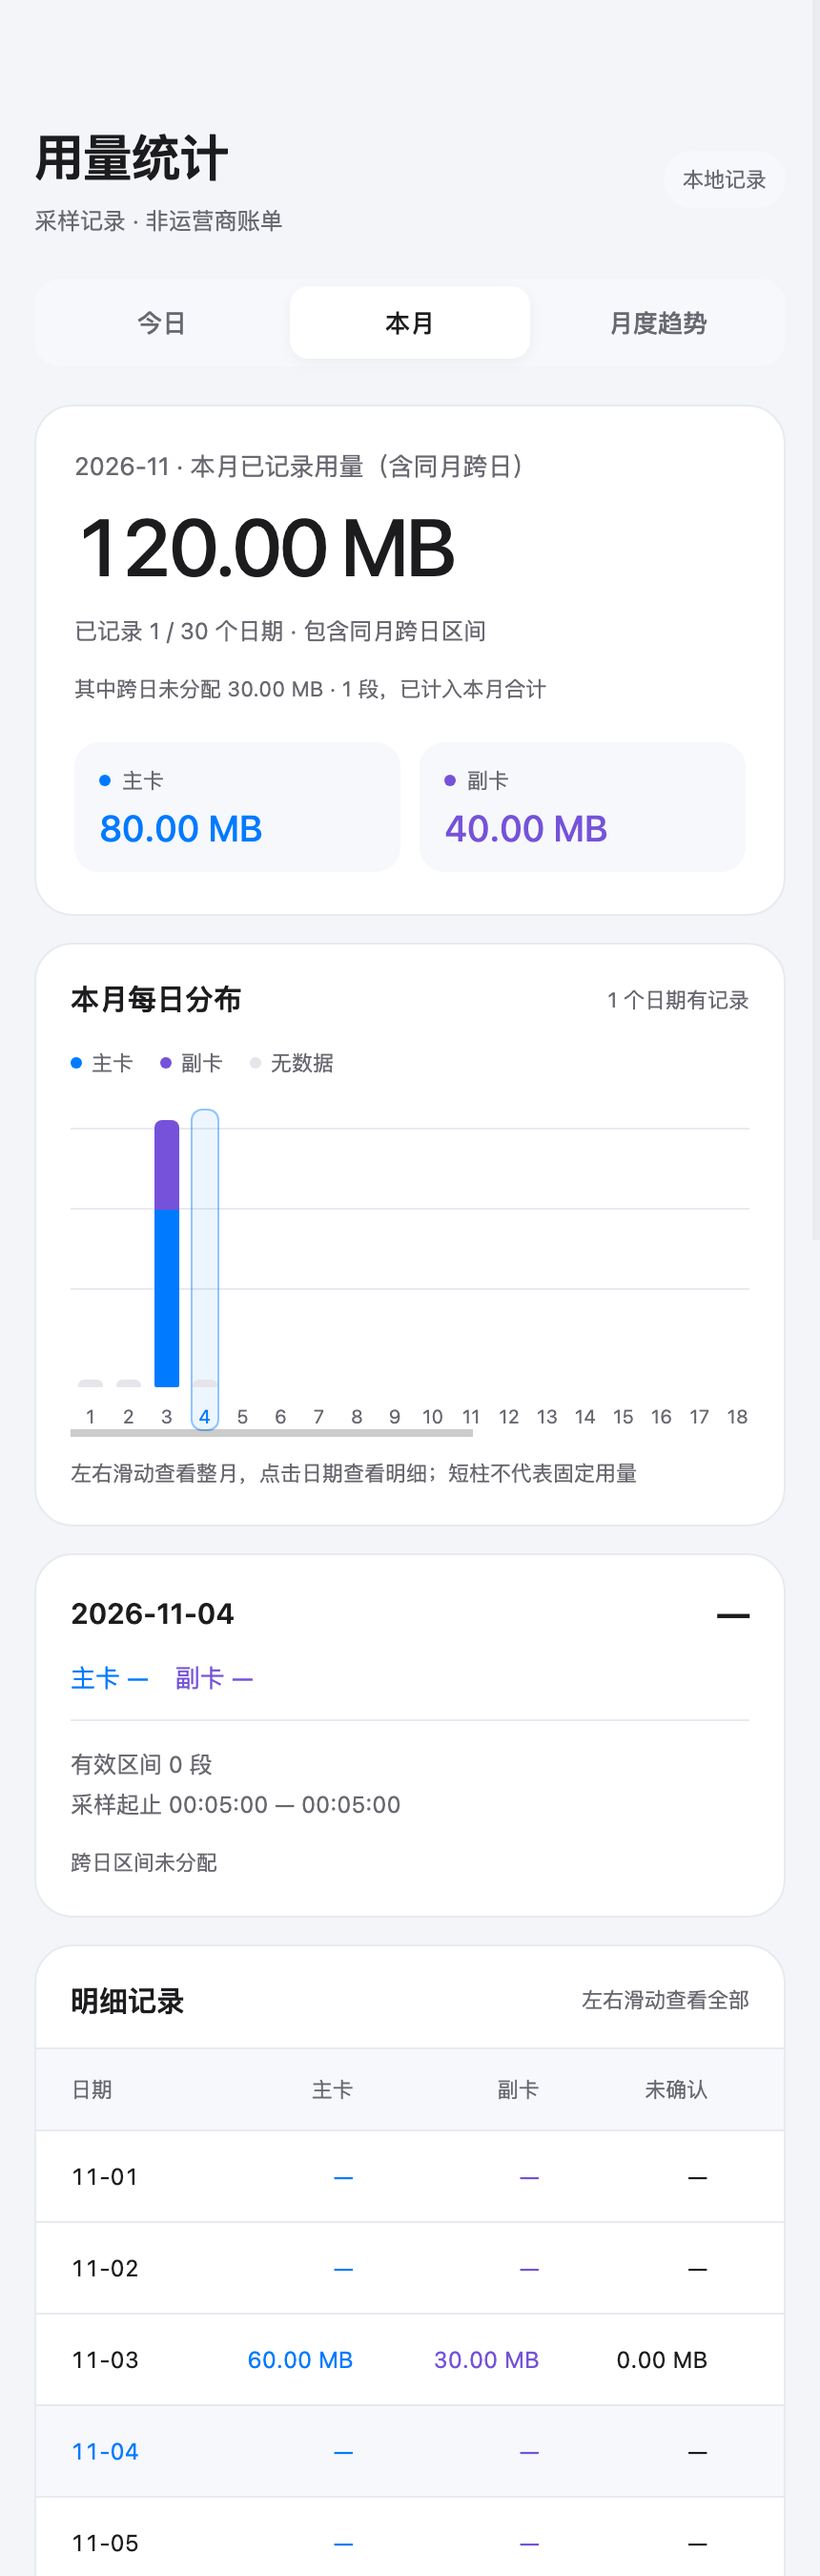
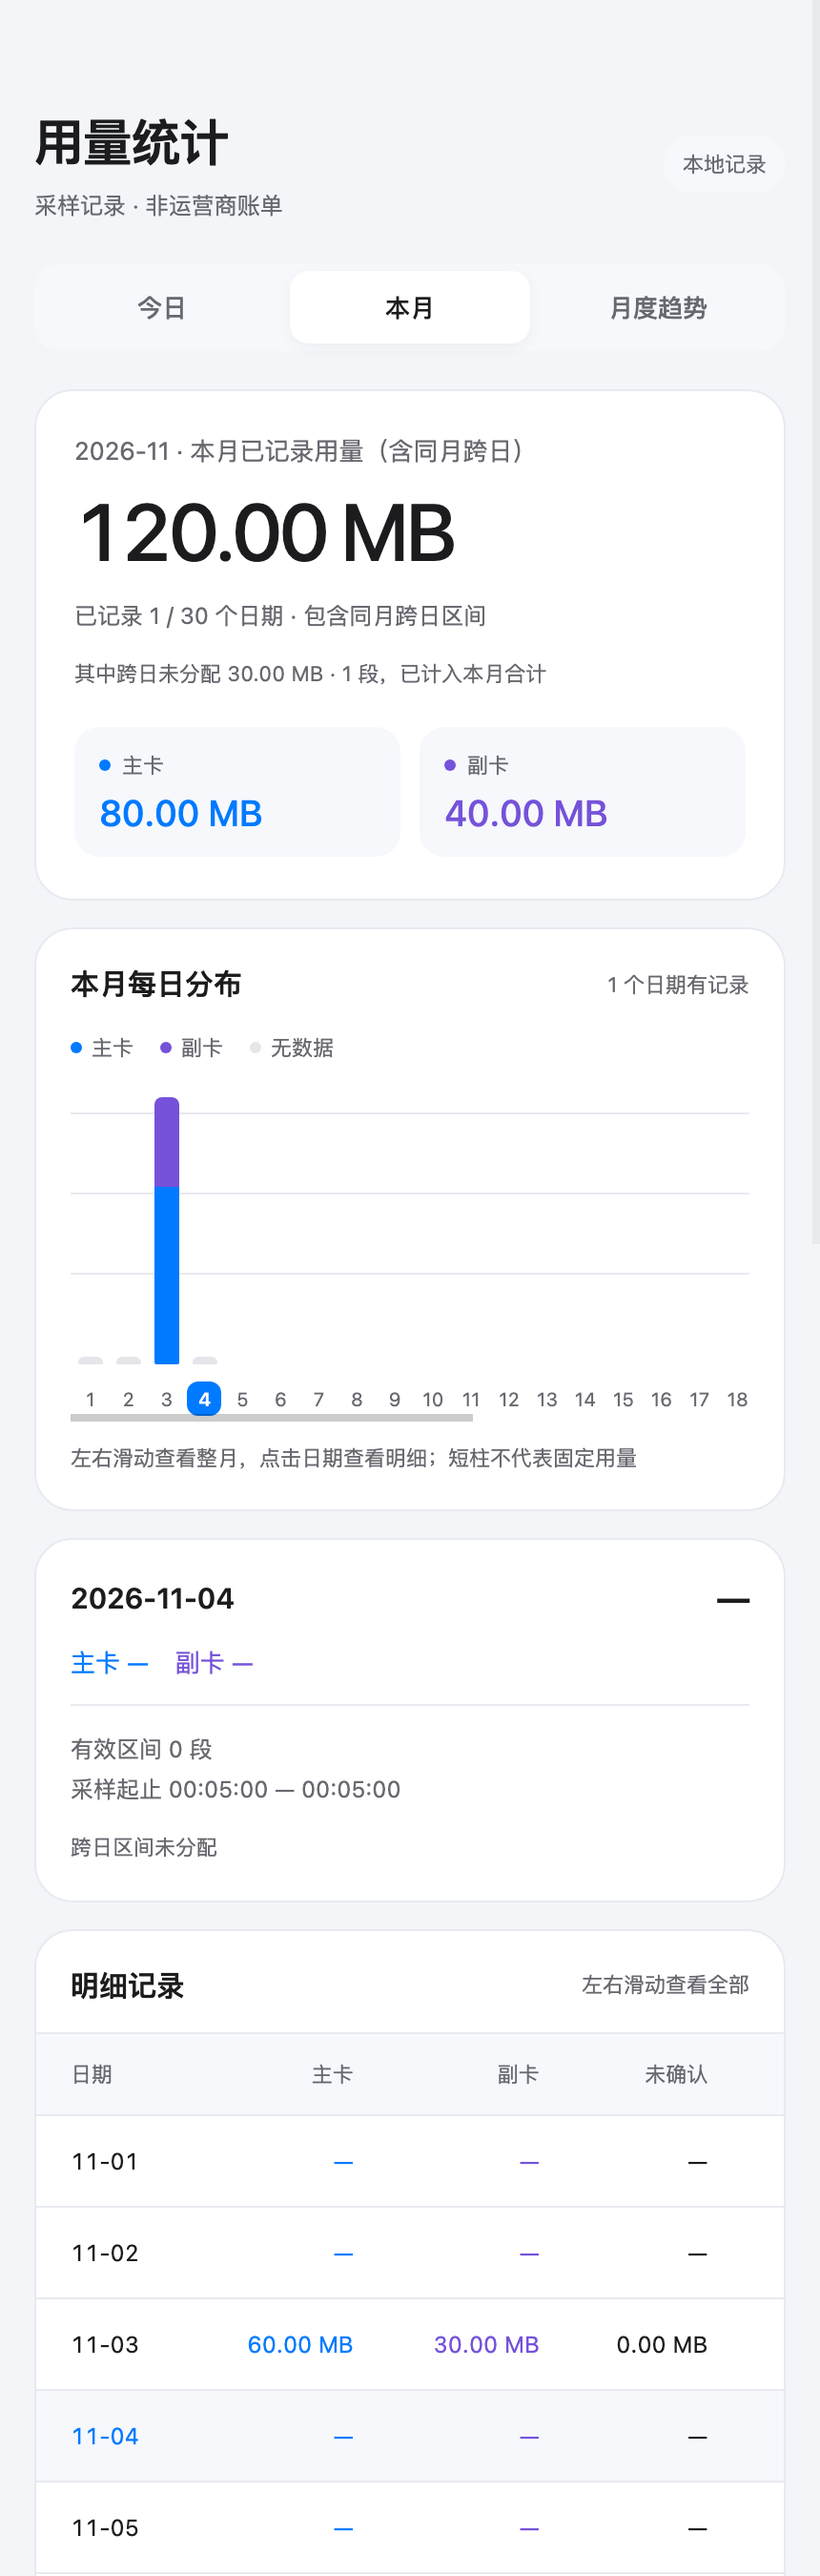
Tighten statistics header spacing and simplify chart selection

diff --git a/scriptable/UnicomFlow.js b/scriptable/UnicomFlow.js
@@ -554,11 +554,11 @@ function statisticsHTML(reports, stale = false, initialPeriod = 'month') {
   return `<!doctype html><html lang="zh-CN"><head><meta charset="utf-8"><meta name="viewport" content="width=device-width,initial-scale=1,minimum-scale=1,maximum-scale=1,user-scalable=no,viewport-fit=cover"><style>
   :root{color-scheme:${light ? 'light' : 'dark'};--text:#${UF.text};--muted:#${UF.muted};--blue:#${UF.blue};--purple:#${UF.purple};--warning:#${UF.warning};--line:#${border};--surface:#${surface};--soft:#${soft}}
   *{box-sizing:border-box;touch-action:manipulation}body{margin:0;background:#${page};color:var(--text);font:14px -apple-system,BlinkMacSystemFont,sans-serif;-webkit-text-size-adjust:100%}button{font:inherit;color:inherit;-webkit-tap-highlight-color:transparent}button:focus-visible{outline:2px solid var(--blue);outline-offset:2px}[hidden]{display:none!important}
-  .shell{max-width:760px;margin:auto;padding:calc(64px + env(safe-area-inset-top,0px)) 18px 30px}header{display:flex;align-items:center;justify-content:space-between;margin-bottom:22px}h1{font-size:26px;letter-spacing:-.6px;margin:0 0 6px;font-weight:650}.eyebrow{font-size:12px;color:var(--muted)}.badge{font-size:11px;white-space:nowrap;padding:7px 10px;border-radius:20px;background:var(--soft);color:var(--muted)}.cached{color:var(--warning)}
+  .shell{max-width:760px;margin:auto;padding:56px 18px 30px}header{display:flex;align-items:center;justify-content:space-between;margin-bottom:22px}h1{font-size:26px;letter-spacing:-.6px;margin:0 0 6px;font-weight:650}.eyebrow{font-size:12px;color:var(--muted)}.badge{font-size:11px;white-space:nowrap;padding:7px 10px;border-radius:20px;background:var(--soft);color:var(--muted)}.cached{color:var(--warning)}
   .tabs{display:grid;grid-template-columns:repeat(3,1fr);padding:4px;background:var(--soft);border-radius:14px;gap:4px;margin-bottom:20px}.tab{border:0;background:transparent;padding:10px 4px;border-radius:10px;color:var(--muted);font-size:13px;font-weight:500}.tab.active{background:var(--surface);color:var(--text);box-shadow:0 2px 8px #0000000c}
   .card{background:var(--surface);border:1px solid var(--line);border-radius:20px;padding:18px;margin-bottom:14px;min-width:0}.hero{padding:22px 20px}.period-label{font-size:13px;color:var(--muted)}.total{margin:10px 0 12px;font-variant-numeric:tabular-nums;letter-spacing:-1.5px;font-size:42px;font-weight:500;line-height:1.1}.total small{font-size:17px;letter-spacing:0;color:var(--muted);font-weight:400;margin-left:7px}.coverage{font-size:12px;color:var(--muted);line-height:1.6}.totals{display:grid;grid-template-columns:1fr 1fr;gap:10px;margin-top:18px}.mini{padding:12px 13px;border-radius:13px;background:var(--soft)}.mini-label{font-size:11px;color:var(--muted);display:flex;align-items:center;gap:6px}.mini strong{display:block;font-size:19px;font-weight:500;font-variant-numeric:tabular-nums;margin-top:6px}.main{color:var(--blue)}.vice{color:var(--purple)}.unconfirmed{font-size:12px;margin-top:12px;color:var(--warning)}
   h2{font-size:15px;font-weight:600;margin:0}.card-head{display:flex;justify-content:space-between;align-items:center;gap:8px}.hint{font-size:11px;color:var(--muted)}.legend{display:flex;flex-wrap:wrap;gap:14px;font-size:11px;color:var(--muted);margin:15px 0 8px}.legend span{display:inline-flex;align-items:center;gap:5px}.dot{display:inline-block;width:6px;height:6px;border-radius:50%;flex-shrink:0}.blue{background:var(--blue)}.purple{background:var(--purple)}.amber{background:var(--warning)}.gray{background:#${UF.track}}
-  .scroll{overflow-x:auto;max-width:100%;-webkit-overflow-scrolling:touch}.chart{display:flex;align-items:stretch;gap:5px;height:180px;padding:8px 3px 3px;background:repeating-linear-gradient(to top,transparent 0,transparent 41px,var(--line) 41px,var(--line) 42px);background-size:100% 144px;background-repeat:no-repeat}.bar{flex:1;min-width:14px;padding:0 1px;border:0;background:transparent;border-radius:6px;display:flex;align-items:center;justify-content:flex-end;flex-direction:column;gap:9px}.bar.selected{background:#${UF.blue}12;box-shadow:inset 0 0 0 1px #${UF.blue}66}.fill{display:flex;flex-direction:column-reverse;overflow:hidden;width:100%;border-radius:4px 4px 1px 1px;background:var(--purple)}.fill.missing{background:#${UF.track}}.fill.future{background:transparent}.segment{display:block;width:100%;flex-shrink:0}.tick{height:14px;font-size:10px;color:var(--muted);white-space:nowrap}.bar.selected .tick{color:var(--blue)}.chart-foot{margin-top:10px;line-height:1.6;font-size:11px;color:var(--muted)}
+  .scroll{overflow-x:auto;max-width:100%;-webkit-overflow-scrolling:touch}.chart{display:flex;align-items:stretch;gap:5px;height:180px;padding:8px 3px 3px;background:repeating-linear-gradient(to top,transparent 0,transparent 41px,var(--line) 41px,var(--line) 42px);background-size:100% 144px;background-repeat:no-repeat}.bar{flex:1;min-width:14px;padding:0 1px;border:0;background:transparent;border-radius:6px;display:flex;align-items:center;justify-content:flex-end;flex-direction:column;gap:9px}.fill{display:flex;flex-direction:column-reverse;overflow:hidden;width:100%;border-radius:4px 4px 1px 1px;background:var(--purple)}.fill.missing{background:#${UF.track}}.fill.future{background:transparent}.segment{display:block;width:100%;flex-shrink:0}.tick{height:18px;min-width:18px;padding:2px 4px;line-height:14px;border-radius:6px;font-size:10px;color:var(--muted);white-space:nowrap}.bar.selected .tick{background:var(--blue);color:#fff;font-weight:600}.chart-foot{margin-top:10px;line-height:1.6;font-size:11px;color:var(--muted)}
   .selected-heading{display:flex;align-items:center;justify-content:space-between;gap:12px}.selected-value{font-size:21px;font-weight:500;letter-spacing:-.4px}.selected-cards{display:flex;flex-wrap:wrap;gap:14px;margin:13px 0;font-size:13px}.detail{border-top:1px solid var(--line);padding-top:12px;color:var(--muted);font-size:12px;line-height:1.8;white-space:pre-line;overflow-wrap:anywhere}.status-note{margin:10px 0 0;font-size:11px;line-height:1.7;color:var(--muted)}
   .table-card{padding:18px 0 0;overflow:hidden}.table-card .card-head{padding:0 18px 14px}table{width:100%;min-width:545px;border-collapse:collapse;font-variant-numeric:tabular-nums}th,td{text-align:right;border-top:1px solid var(--line);padding:13px 12px;white-space:nowrap;font-size:12px}th{font-size:11px;font-weight:400;color:var(--muted);background:var(--soft)}th:first-child,td:first-child{text-align:left;position:sticky;left:0;z-index:1;background:var(--surface);padding-left:18px}th:first-child{background:var(--soft)}td:last-child{color:var(--muted);font-size:11px}tr.selected td{background:#${soft}}.date{border:0;padding:3px 0;background:none;color:var(--text);font-size:12px}tr.selected .date{color:var(--blue)}
   details{color:var(--muted);font-size:12px;line-height:1.8}summary{cursor:pointer;color:var(--text);font-size:13px;font-weight:500}details p{margin:10px 0 0}.cross-event{padding:10px 0;border-top:1px solid var(--line);font-size:12px;line-height:1.7;white-space:pre-line}footer{white-space:pre-line;color:var(--muted);font-size:11px;line-height:1.8;text-align:center;margin-top:20px}.range-note{margin:12px 0 0;color:var(--muted);font-size:11px;line-height:1.7}
@@ -586,7 +586,7 @@ function statisticsHTML(reports, stale = false, initialPeriod = 'month') {
       el('selected-unknown').hidden=!(d.unknownMB>0);el('selected-unknown').textContent='未确认 '+amount(d.unknownMB);
       el('detail').textContent=d.first==null?'暂无成功采样记录':'有效区间 '+d.intervals+' 段\\n采样起止 '+clock(d.first,current==='year')+' — '+clock(d.last,current==='year');
       el('selected-note').textContent=(current==='year'&&d.key===report.month?'本月尚未结束，不参与月均。':current==='year'&&d.partial?'部分记录，不代表完整月用量。':'')+(d.future?'该时段尚未到达':d.notes.join('；')||(d.mb==null?'没有记录，未补零':'仅代表已记录区间，不保证覆盖完整时段'));
-      Array.from(el('chart').children).forEach(item=>item.classList.toggle('selected',item.dataset.key===d.key));
+      Array.from(el('chart').children).forEach(item=>{const active=item.dataset.key===d.key;item.classList.toggle('selected',active);item.setAttribute('aria-pressed',String(active));});
       Array.from(el('rows').children).forEach(item=>item.classList.toggle('selected',item.dataset.key===d.key));
     }
     function render(key){

diff --git a/docs/unicom-flow/README.md b/docs/unicom-flow/README.md
@@ -111,7 +111,7 @@
 
 从 Scriptable 运行脚本，在“账户与数据 → 用量统计”进入统一页面，通过顶部“今日／本月／月度趋势”切换。打开页面只查询一次，之后切换周期、点击柱子和表格都使用同一份记录，不额外请求联通。原有历史文件与统计口径不变，不会因界面更新清空记录。
 
-页面禁止双击缩放，并为 Scriptable 的 Close／分享工具栏预留顶部安全距离；保留页面、图表和表格的正常滑动。页面使用当前黑白主题的卡片布局，分别展示总览、主副卡汇总、堆叠图、选中记录与明细表。无数据、归属未确认、跨日待分配、缓存状态都有独立提示。明细表首列固定，宽表可横向滑动。桌面图表仍保持今日小时视图，不增加小号内容。
+页面禁止双击缩放，并为 Scriptable 的 Close／分享工具栏预留 56 点顶部距离，不重复叠加系统安全区；保留页面、图表和表格的正常滑动。页面使用当前黑白主题的卡片布局，分别展示总览、主副卡汇总、堆叠图、选中记录与明细表。图表选中项只高亮日期标签，不再以整列边框包围柱子，主副卡柱子的颜色保持不变。无数据、归属未确认、跨日待分配、缓存状态都有独立提示。明细表首列固定，宽表可横向滑动。桌面图表仍保持今日小时视图，不增加小号内容。
 
 ### 今日视图（按小时）
 
